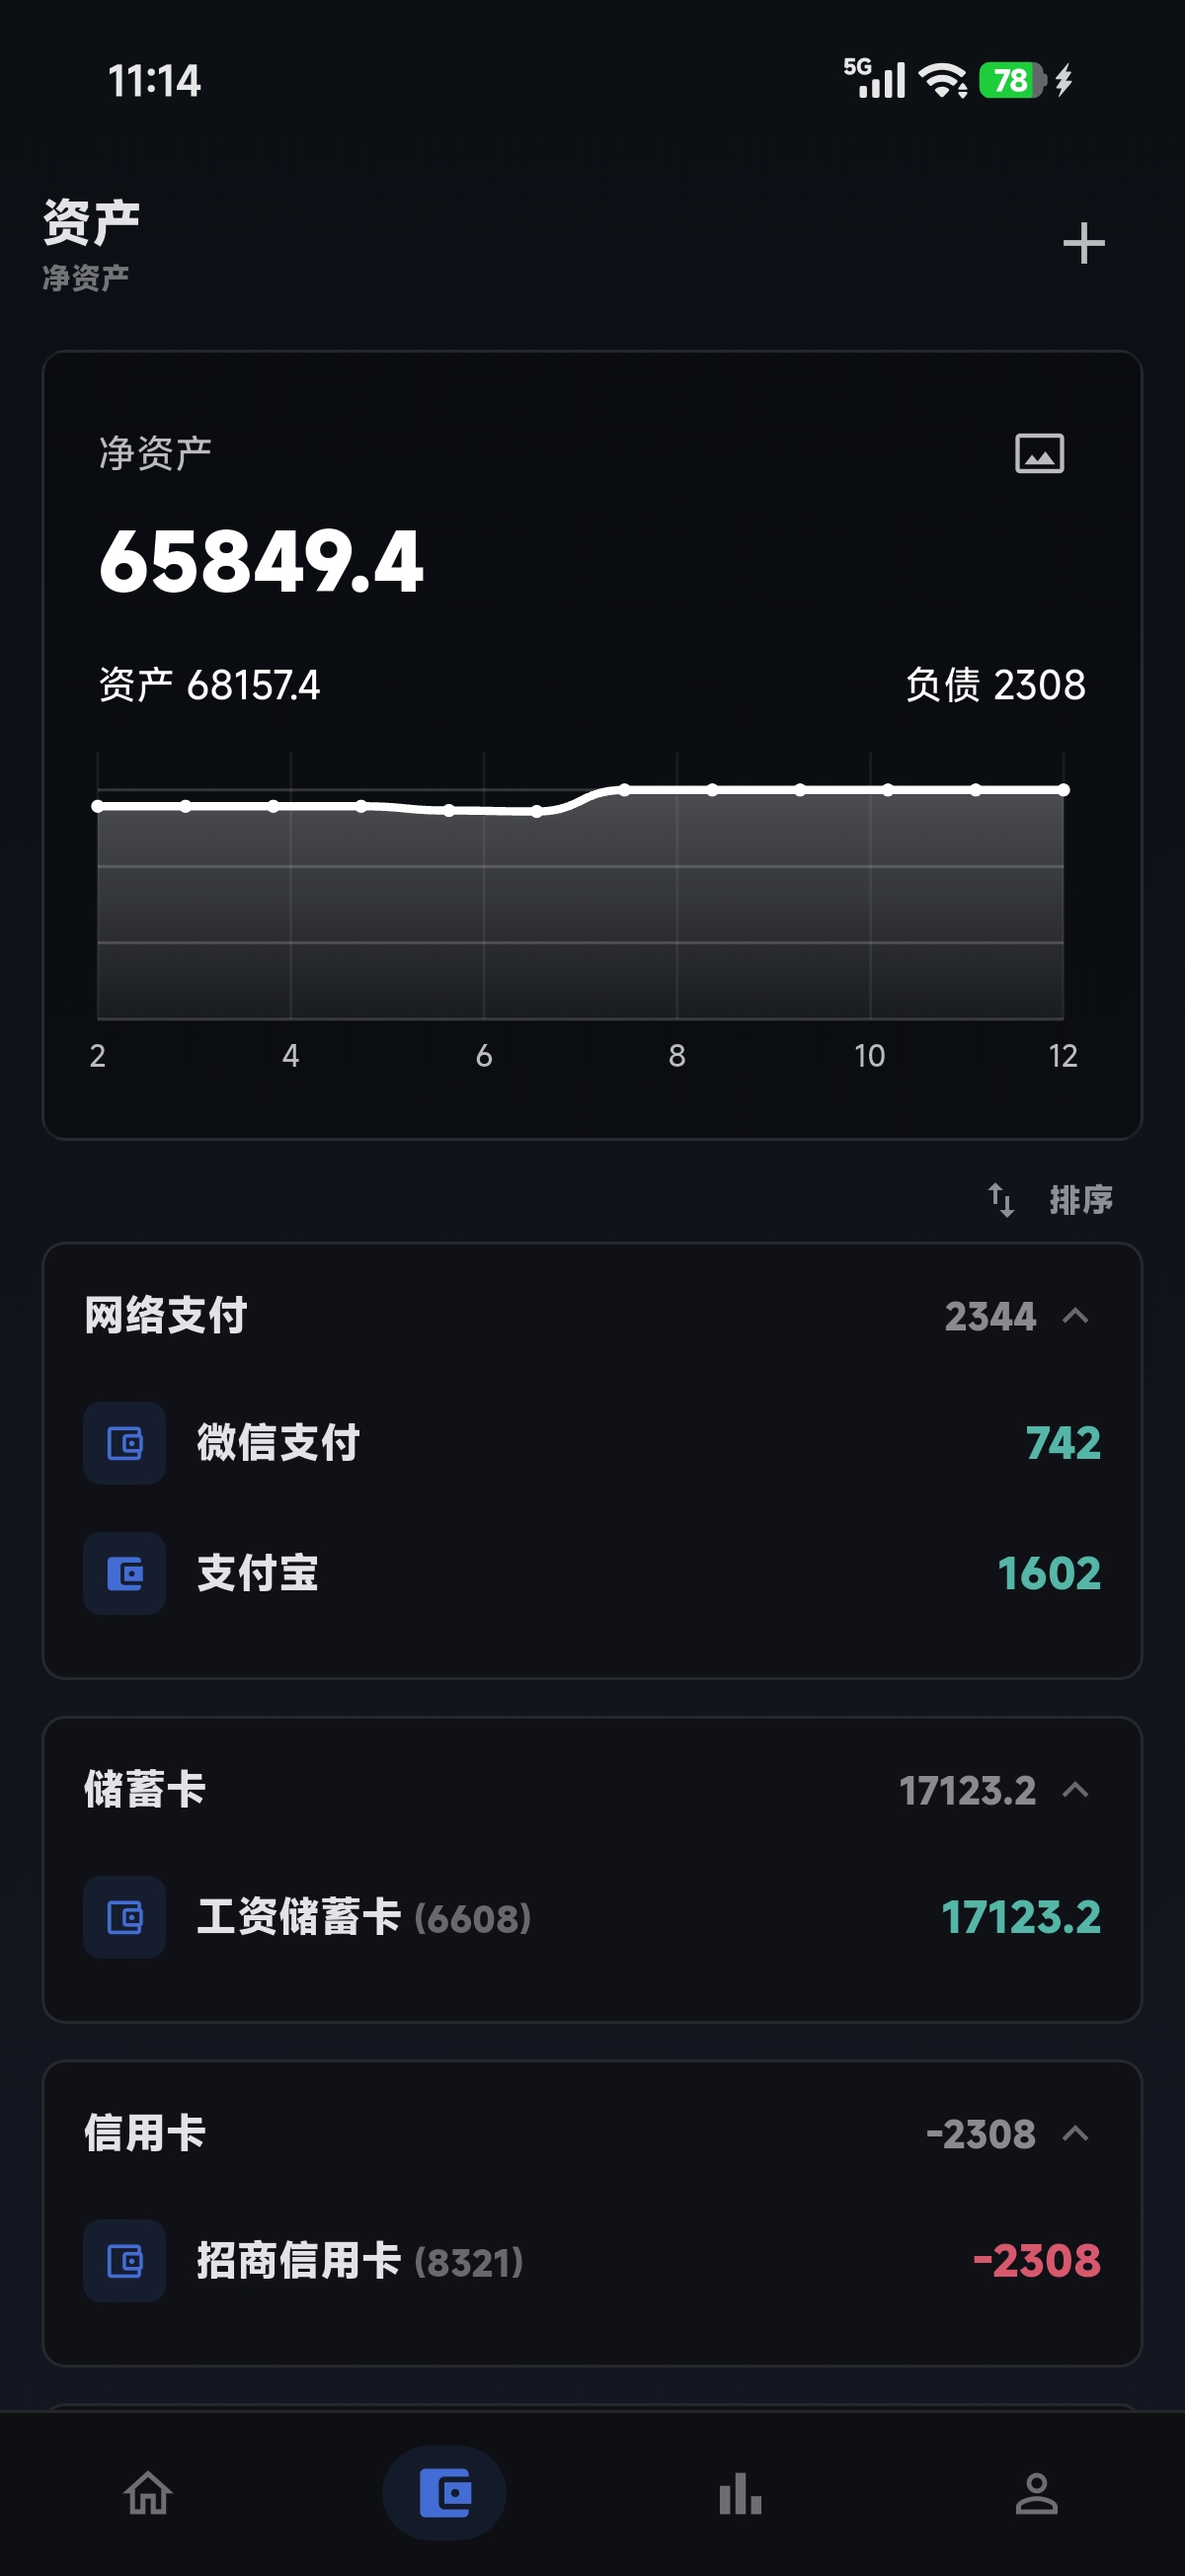
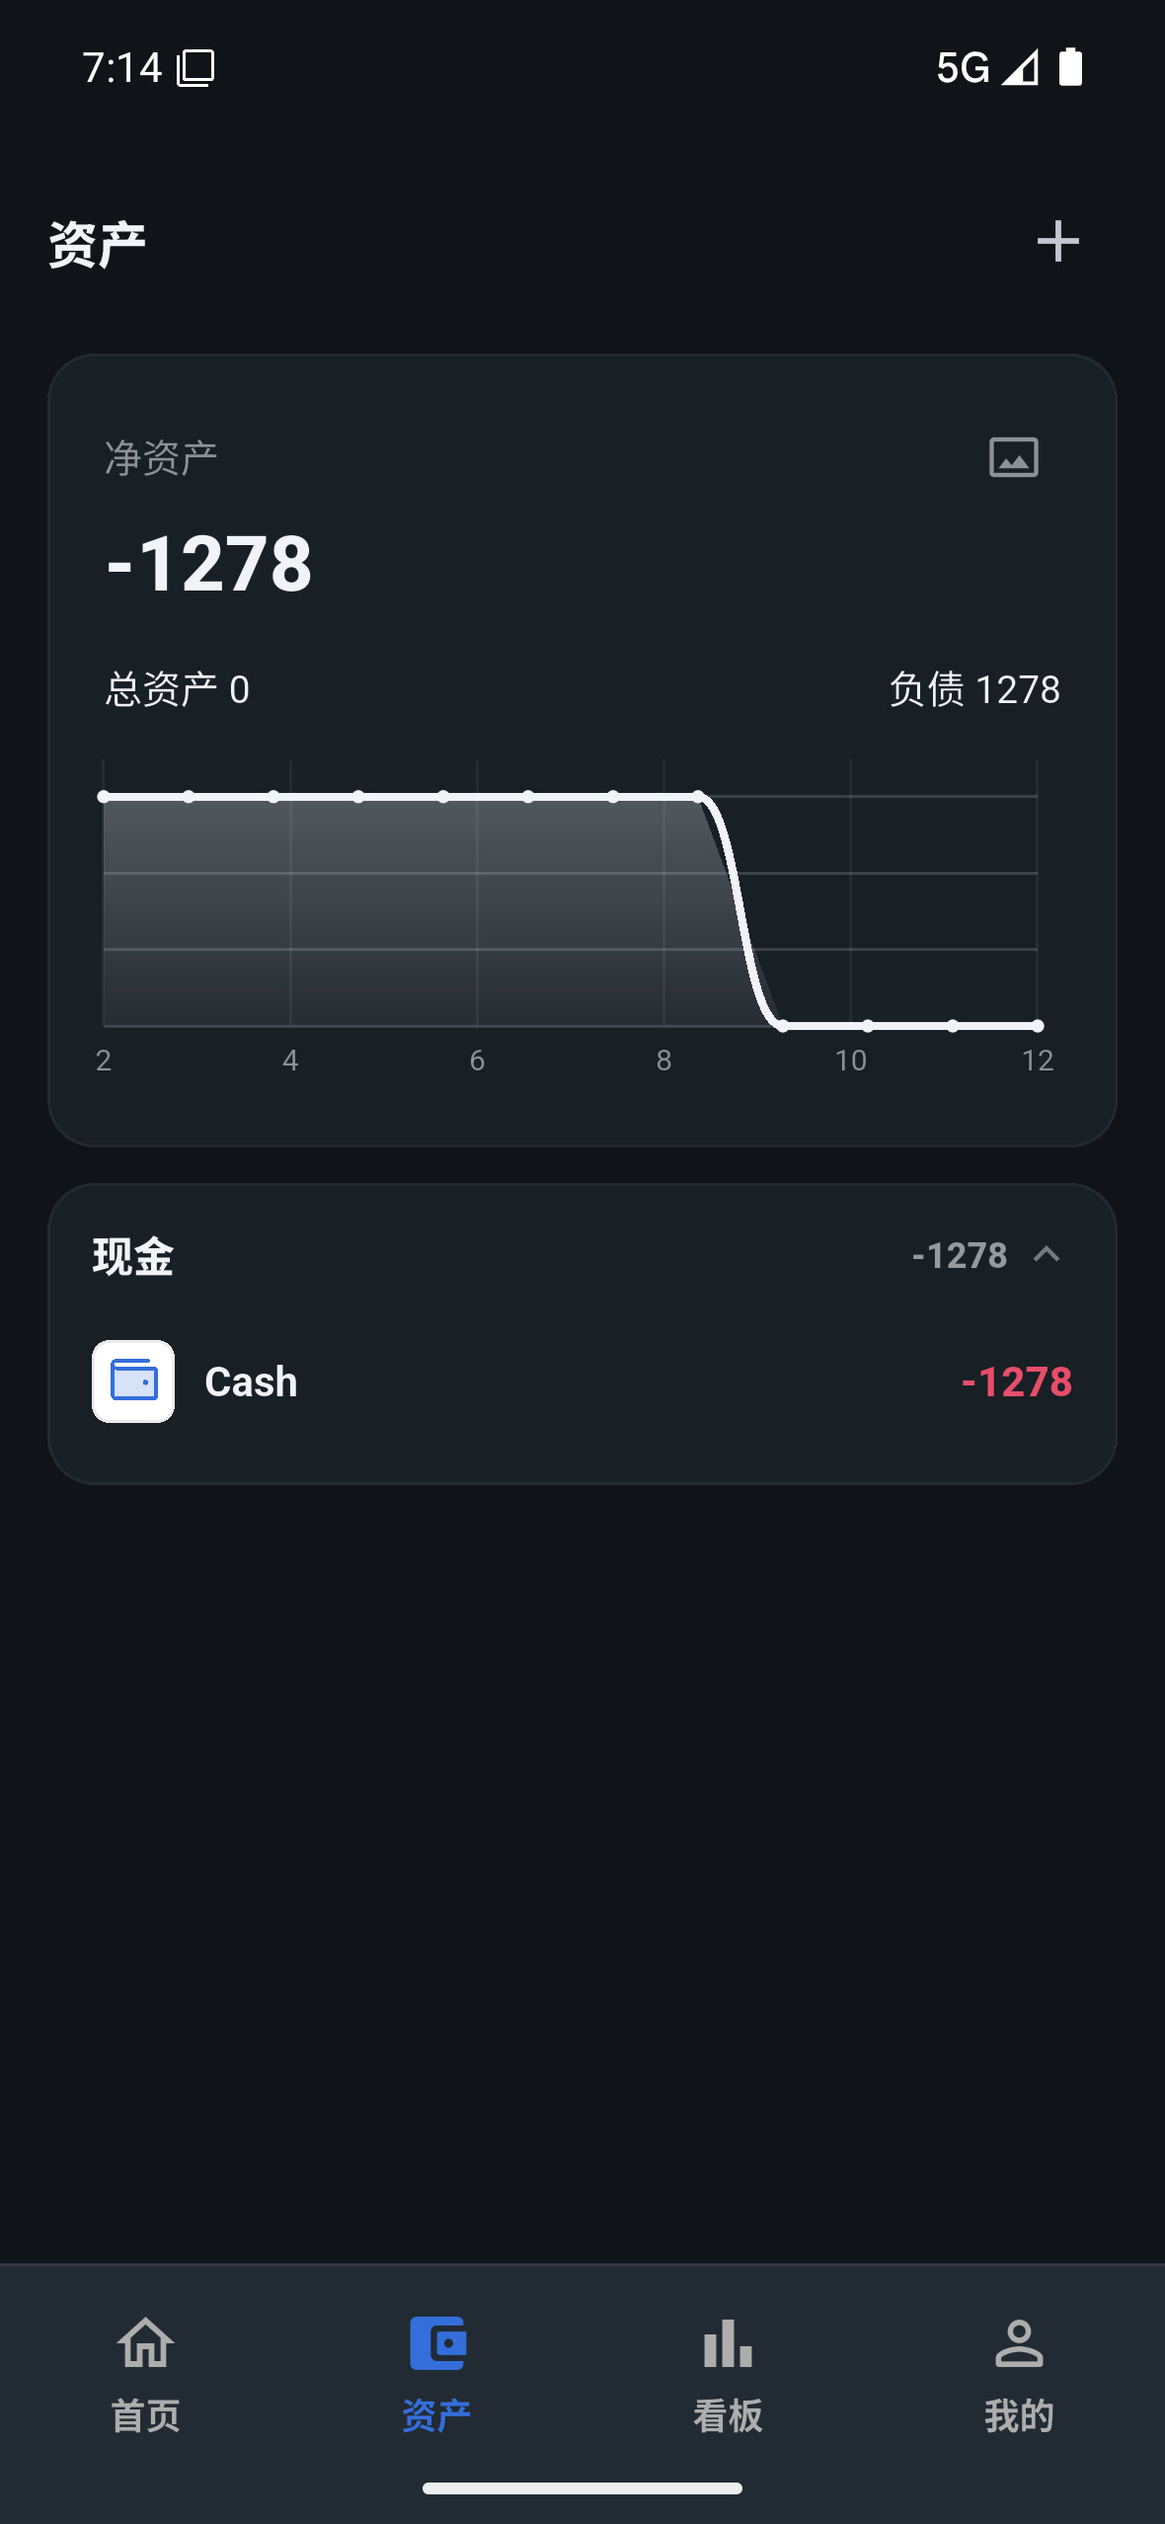
docs: 更新 Android 预览截图

diff --git a/README.md b/README.md
@@ -108,7 +108,7 @@
 git clone git@github.com:LumiDesk/verifin.git
 cd verifin
 flutter pub get                      # 安装依赖（自动生成 l10n）
-flutter run -d <android-device-id> --flavor github  # Android 模拟器或真机预览
+flutter run -d <android-device-id> --flavor github --dart-define=UNIFIED_DESIGN_PREVIEW=true  # Android 模拟器或真机预览
 flutter analyze && flutter test      # 静态检查 + 全部测试
 ```
 

diff --git a/docs/screenshots/README.md b/docs/screenshots/README.md
@@ -1,6 +1,6 @@
 # 截图目录
 
-根 README「界面预览」引用的三张真机截图（1200×2608）：
+根 README「界面预览」引用的三张 Android 模拟器截图（1180×2556，使用 diagnostic flavor 的虚拟账目）：
 
 - `home.jpg` — 首页
 - `assets.jpg` — 资产
